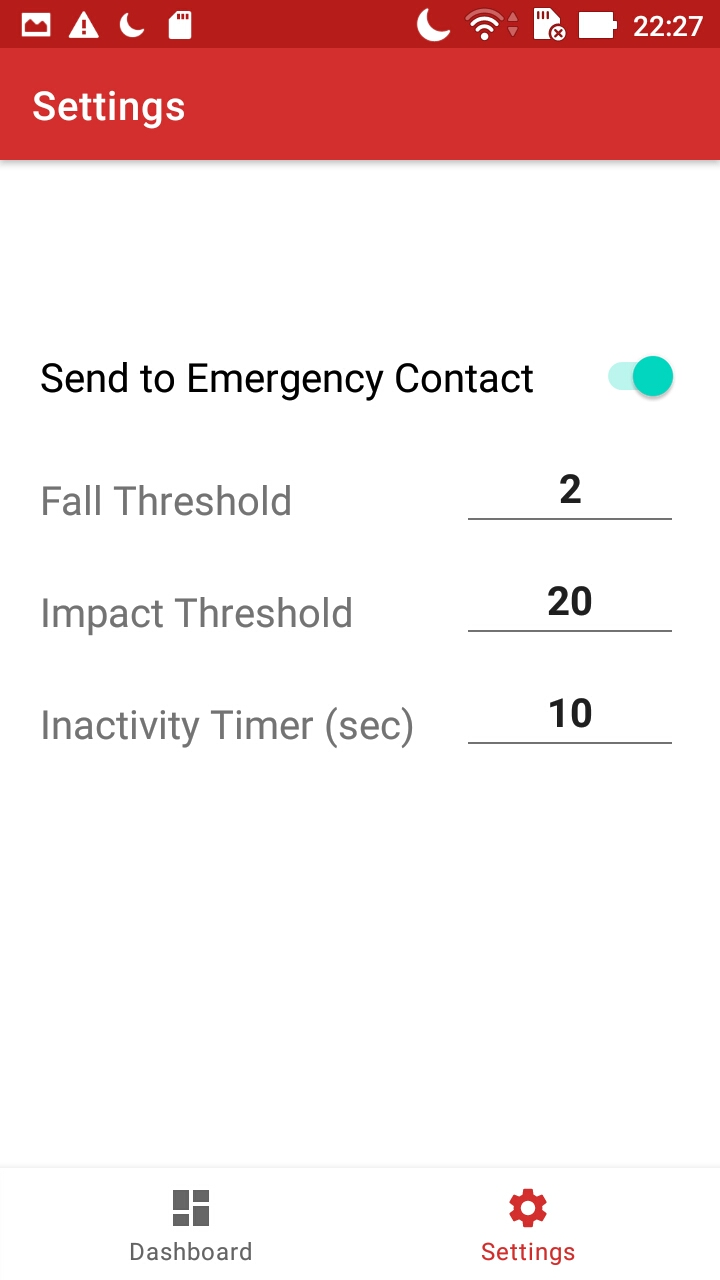
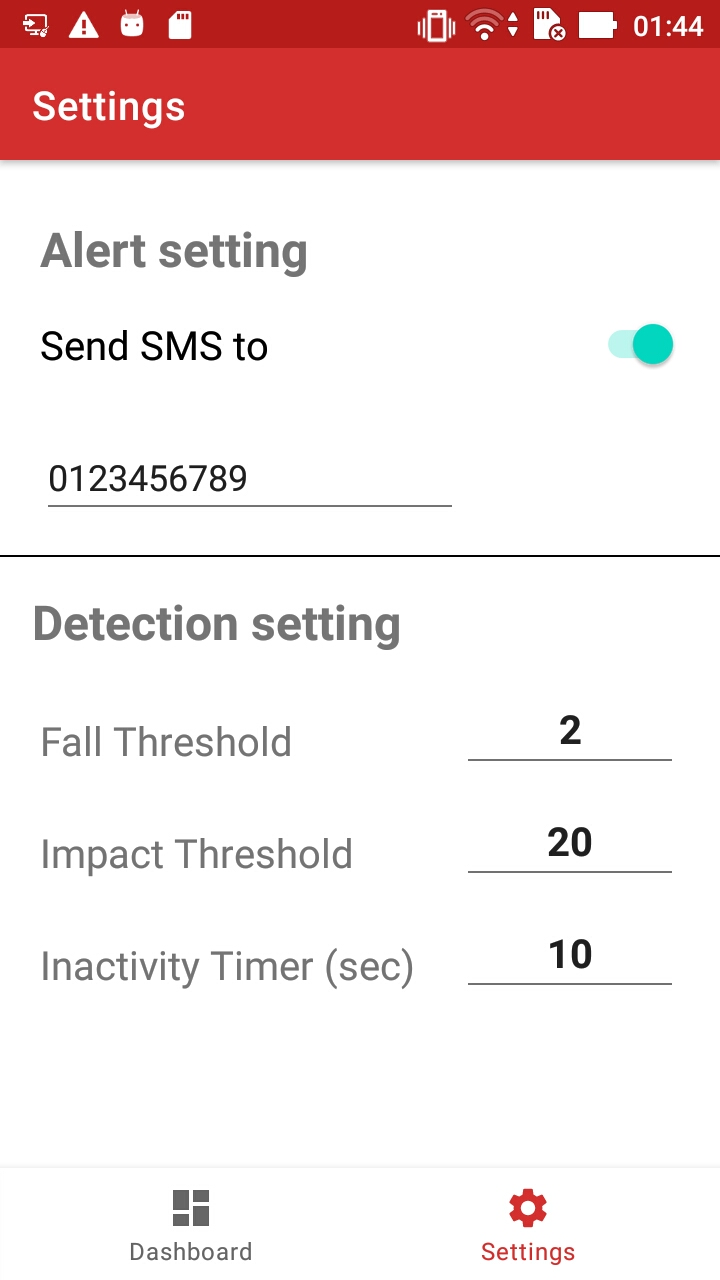
SMS permission and preference setting

diff --git a/app/src/main/java/com/example/gravt/ui/dashboard/DashboardFragment.java b/app/src/main/java/com/example/gravt/ui/dashboard/DashboardFragment.java
@@ -1,13 +1,16 @@
 package com.example.gravt.ui.dashboard;
 
+import android.Manifest;
 import android.content.Context;
 import android.content.SharedPreferences;
+import android.content.pm.PackageManager;
 import android.graphics.Color;
 import android.hardware.Sensor;
 import android.hardware.SensorEvent;
 import android.hardware.SensorEventListener;
 import android.hardware.SensorManager;
 import android.os.Bundle;
+import android.telephony.SmsManager;
 import android.view.LayoutInflater;
 import android.view.View;
 import android.view.ViewGroup;
@@ -16,6 +19,8 @@ import android.widget.ProgressBar;
 import android.widget.TextView;
 
 import androidx.annotation.NonNull;
+import androidx.core.app.ActivityCompat;
+import androidx.core.content.ContextCompat;
 import androidx.fragment.app.Fragment;
 
 import com.example.gravt.R;
@@ -34,6 +39,8 @@ public class DashboardFragment extends Fragment {
 
     private FragmentDashboardBinding binding;
 
+
+
     // items on dashboard
     CheckBox fall_checkbox, impact_checkbox;
     ProgressBar inactivity_progress_bar;
@@ -44,6 +51,7 @@ public class DashboardFragment extends Fragment {
     // chart plot variables
     private int num_datapoints = 0;
     private boolean send_emergency_contact;
+    private String emergency_phone_number;
     private int high_thres;
     private int low_thres;
     private int inactivity_timer;
@@ -98,6 +106,10 @@ public class DashboardFragment extends Fragment {
             detectFall();
             detectImpact();
             detectInactivity();
+
+            if (all_triggered == true){
+                permissionCheck();
+            }
 
             // reset axis and background color
             viewport.setMinX(Math.max(0,num_datapoints - 500));
@@ -161,7 +173,14 @@ public class DashboardFragment extends Fragment {
 
         // populate setting based on preferences
         SharedPreferences settings = this.getActivity().getSharedPreferences("settings", 0);
-        send_emergency_contact = settings.getBoolean("send_emergency_contact", false);
+        // if no permission to send SMS, make it false
+        if (ContextCompat.checkSelfPermission(this.getActivity(), Manifest.permission.SEND_SMS) ==
+                PackageManager.PERMISSION_GRANTED) {
+            send_emergency_contact = settings.getBoolean("send_emergency_contact", false);
+        } else {
+            send_emergency_contact = false;
+        }
+        emergency_phone_number = settings.getString("emergency_phone_number", "999");
         high_thres = settings.getInt("high_thres", 30);
         low_thres = settings.getInt("low_thres", 2);
         inactivity_timer = settings.getInt("inactivity_timer", 10);
@@ -210,11 +229,28 @@ public class DashboardFragment extends Fragment {
         // Else, reset inactivity_start_time and progress bar
         if (Math.abs(acc_curr_val - 9.81) < 1 && inactivity_start_time > 0) {
             inactivity_progress_bar.setProgress(((int)(System.currentTimeMillis() - inactivity_start_time))/(10 * inactivity_timer));
-            all_triggered = (int)(System.currentTimeMillis() - inactivity_start_time) > 10 * inactivity_timer;
+            all_triggered = ((int)(System.currentTimeMillis() - inactivity_start_time)) > 1000 * inactivity_timer;
         } else {
             inactivity_start_time = 0;
             inactivity_progress_bar.setProgress(0);
+            all_triggered = false;
         }
+    }
+
+    private void permissionCheck(){
+        // shouldnt need to check permission anymore as it is checked when user check the emergency contact switch, but just in case
+        if (ContextCompat.checkSelfPermission(this.getActivity(), Manifest.permission.SEND_SMS) ==
+                PackageManager.PERMISSION_GRANTED && send_emergency_contact == true) {
+            sendSms();
+            all_triggered = false;
+            return;
+        }
+    }
+
+    private void sendSms(){
+        SmsManager sms = SmsManager.getDefault();
+        ArrayList<String> parts = sms.divideMessage("GraVT: Please send help!");
+        sms.sendMultipartTextMessage(emergency_phone_number, null, parts, null,null);
     }
 
 }

diff --git a/app/src/main/java/com/example/gravt/ui/settings/SettingsFragment.java b/app/src/main/java/com/example/gravt/ui/settings/SettingsFragment.java
@@ -1,19 +1,28 @@
 package com.example.gravt.ui.settings;
 
+import android.Manifest;
 import android.content.SharedPreferences;
+import android.content.pm.PackageManager;
 import android.os.Bundle;
 import android.view.LayoutInflater;
 import android.view.View;
 import android.view.ViewGroup;
 import android.widget.TextView;
+import android.widget.Toast;
 
 import androidx.annotation.NonNull;
+import androidx.core.app.ActivityCompat;
+import androidx.core.content.ContextCompat;
 import androidx.fragment.app.Fragment;
+
+import com.example.gravt.MainActivity;
 import com.example.gravt.databinding.FragmentSettingsBinding;
 
 public class SettingsFragment extends Fragment {
 
     private FragmentSettingsBinding binding;
+
+    private static final int SEND_SMS_CODE = 23;
 
     public View onCreateView(@NonNull LayoutInflater inflater,
                              ViewGroup container, Bundle savedInstanceState) {
@@ -40,6 +49,7 @@ public class SettingsFragment extends Fragment {
         // populate setting based on preferences
         SharedPreferences settings = this.getActivity().getSharedPreferences("settings", 0);
         binding.sendEmergencyContactSwitch.setChecked(settings.getBoolean("send_emergency_contact", false));
+        binding.emergencyPhoneNumber.setText(settings.getString("emergency_phone_number", "999"));
         binding.editHighThreshold.setText(Integer.toString(settings.getInt("high_thres", 30)));
         binding.editLowThreshold.setText(Integer.toString(settings.getInt("low_thres", 2)));
         binding.editInactivityTimer.setText(Integer.toString(settings.getInt("inactivity_timer", 10)));
@@ -49,9 +59,15 @@ public class SettingsFragment extends Fragment {
     public void onPause() {
         super.onPause();
         // write to preferences
+        // check if have permission. If not, prompt.
         SharedPreferences settings = this.getActivity().getSharedPreferences("settings", 0);
         SharedPreferences.Editor editor = settings.edit();
-        editor.putBoolean("send_emergency_contact", binding.sendEmergencyContactSwitch.isChecked());
+        if (binding.sendEmergencyContactSwitch.isChecked() && ContextCompat.checkSelfPermission(this.getActivity(), Manifest.permission.SEND_SMS) != PackageManager.PERMISSION_GRANTED) {
+            requestSmsSendPermission();
+        } else {
+            editor.putBoolean("send_emergency_contact", binding.sendEmergencyContactSwitch.isChecked());
+        }
+        editor.putString("emergency_phone_number", binding.emergencyPhoneNumber.getText().toString());
         editor.putInt("high_thres", Integer.parseInt(binding.editHighThreshold.getText().toString()));
         editor.putInt("low_thres", Integer.parseInt(binding.editLowThreshold.getText().toString()));
         editor.putInt("inactivity_timer", Integer.parseInt(binding.editInactivityTimer.getText().toString()));
@@ -62,4 +78,12 @@ public class SettingsFragment extends Fragment {
         super.onDestroyView();
         binding = null;
     }
+
+    //Requesting permission
+    private void requestSmsSendPermission() {
+        //Ask for the permission
+        ActivityCompat.requestPermissions(this.getActivity(), new String[] { Manifest.permission.SEND_SMS },
+                SEND_SMS_CODE);
+    }
+
 }

diff --git a/app/src/main/java/com/example/gravt/MainActivity.java b/app/src/main/java/com/example/gravt/MainActivity.java
@@ -1,5 +1,7 @@
 package com.example.gravt;
 
+import android.content.SharedPreferences;
+import android.content.pm.PackageManager;
 import android.os.Bundle;
 
 import com.google.android.material.bottomnavigation.BottomNavigationView;
@@ -15,6 +17,7 @@ import com.example.gravt.databinding.ActivityMainBinding;
 public class MainActivity extends AppCompatActivity {
 
     private ActivityMainBinding binding;
+    private static final int SEND_SMS_CODE = 23;
 
     @Override
     protected void onCreate(Bundle savedInstanceState) {
@@ -33,6 +36,21 @@ public class MainActivity extends AppCompatActivity {
         NavigationUI.setupActionBarWithNavController(this, navController, appBarConfiguration);
         NavigationUI.setupWithNavController(binding.navView, navController);
 
+    }
+
+    @Override
+    public void onRequestPermissionsResult(int permsRequestCode, String[] permissions, int[] grantResults) {
+        super.onRequestPermissionsResult(permsRequestCode, permissions, grantResults);
+        SharedPreferences settings = this.getSharedPreferences("settings", 0);
+        SharedPreferences.Editor editor = settings.edit();
+
+        switch (permsRequestCode) {
+            case SEND_SMS_CODE:
+                boolean SMSAccepted = grantResults[0] == PackageManager.PERMISSION_GRANTED;
+                editor.putBoolean("send_emergency_contact", SMSAccepted);
+                editor.commit();
+
+        }
     }
 
 }
